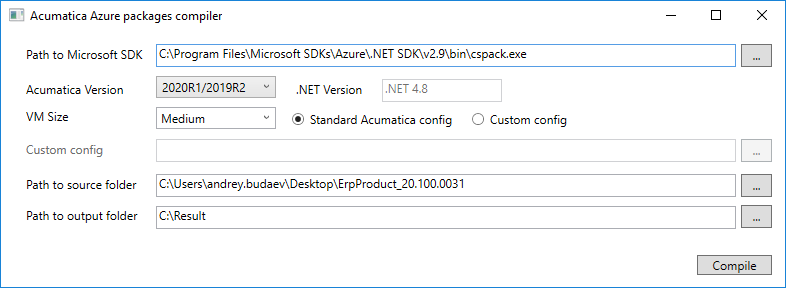
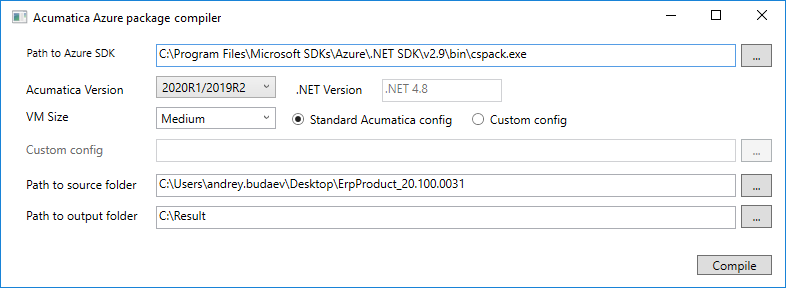
AC-153917: readme review

Changed region(s): [[0.0, 0.0312, 0.2748, 0.0938], [0.0305, 0.1562, 0.1832, 0.2188]]

diff --git a/src/AzureCompiler.UI/MainWindow.xaml b/src/AzureCompiler.UI/MainWindow.xaml
@@ -5,7 +5,7 @@
         xmlns:mc="http://schemas.openxmlformats.org/markup-compatibility/2006"
         xmlns:local="clr-namespace:AzureCompiler.UI"
         mc:Ignorable="d"
-        Title="Acumatica Azure packages compiler" Height="295" Width="800">
+        Title="Acumatica Azure package compiler" Height="295" Width="800">
     <Grid>
         <Label Content="Path to Azure SDK " HorizontalAlignment="Left" Margin="20,10,0,0" VerticalAlignment="Top" RenderTransformOrigin="2.0,3.0"/>
         <TextBox HorizontalAlignment="Left" Height="23" Margin="155,13,0,0" TextWrapping="Wrap" VerticalAlignment="Top" Width="580" Name="TbSDK" MouseDoubleClick="TexBox_Path_MouseDoubleClick" />

diff --git a/README.md b/README.md
@@ -1,50 +1,53 @@
-# Azure package compiler
+# Azure Package Compiler
 
 ## Solution structure
 
-Program have two versions of application. With UI and console application. You can find them inside solution AzureCompiler.
+The Azure package compiler has a version with UI and a console version. You can find these versions inside the `AzureCompiler` solution.
 
-- AzureCompiler.Console - console application
-- AzureCompiler.UI - UI application
-- AzureCompiler.Core - main algorithm for compilation package.
-- DummySite - site using for pre installation acumatica.
-- PX.Dummy - required for DummySite.
-- PX.Azure - configuration for Acumatica Role in Azure
+The `AzureCompiler` solution has the following structure:
+- `AzureCompiler.Console`: The console application
+- `AzureCompiler.UI`: The application with UI
+- `AzureCompiler.Core`: The main algorithm for compilation of the package
+- `DummySite`: A site that is used for preinstallation of Acumatica ERP
+- `PX.Dummy`: A supplementary project that is required for `DummySite`
+- `PX.Azure`: The configuration for the Acumatica role in Azure
 
-## Before run application
+## Before you run the application
 
-You need to install Azure SDK.
-You can do it Visual Studio installer for version (2017, 2019). Just select it as workload in installation.
-![Selected AzureSDK](/docs/images/install.png "AzureSDK")
+You need to install Azure SDK. To do it, you run Visual Studio Installer (Version 2017 or 2019) and select the check box for **Azure development** on the **Workloads** tab, as shown in the following screenshot.
+![Selected AzureSDK](docs/images/install.png "AzureSDK")
 
 ## AzureCompiler.UI
+The UI of the application is shown in the following screenshot.
 
-![Opened UI application](/docs/images/ui1.png "EmptyUI")
+![Opened UI application](docs/images/ui1.png "EmptyUI")
 
-| Input parameter | Required | Default | Description |
+The UI elements are described in the following table.
+
+| Element | Required | Default | Description |
 | --------------- | -------- | ------- | ----------- |
-| Path to Azure SDK     | Yes | None | Path to azure packaging tool cspack.exe |
-| Acumatica Version     | Yes | Default value "2020R1/2019R2" | Use for prefere which version of NET Framework required install before start Acumatica ERP |
-| VM Size               | Yes, if selected radio button "Standard Acumatica config" | Defaule value - Medium | Define virtual machine size for which will be compiled azure package. If you don't find required size, you can write it in the field. Application will be use standard Acumatica configuration for azure packages |
-| Custom config         | Yes, if selected radio button "Custom config" | None | Define full path to file *.csdef. In this case application didn't use VM Size |
-| Path to source folder | Yes | None | Path to unpacked ErpPackage.zip. It can be downloaded from [builds](http://builds.acumatica.com/) |
-| Path to output folder | Yes | None | Path to directory where is to save azure package. If you use standard config - output files name will be like this "Standard_{Vm SIze}.cspkg", if you use custom config output file name will be "AzurePackage.cspkg" |
+| **Path to Azure SDK**     | Yes | None | The path to the `cspack.exe` Azure packaging tool. |
+| **Acumatica Version**     | Yes | *2020R1/2019R2* | The version of Acumatica ERP. The value defines which version of NET. Framework must be installed before the start of Acumatica ERP. (The .Net Framework version that corresponds to the selected version of Acumatica ERP is shown in the **.Net Version** box.)|
+| **VM Size**               | Yes if the **Standard Acumatica config** radio button is selected | *Medium* | The size of the virtual machine for which the Azure package will be compiled. If you cannot find the needed size in the list, you can type one of the general purpose virtual machine sizes in the field. Because the **Standard Acumatica config** radio button is selected, the application will use the standard Acumatica config (the `*.csdef` file) for the Azure packages. |
+| **Custom config**         | Yes if the **Custom config** radio button is selected | None | The full path to the `*.csdef` file. If this value is specified, the application does not use `VM Size`. |
+| **Path to source folder** | Yes | None | The path to the folder with unpacked `ErpPackage.zip`. The archive can be downloaded from [builds](http://builds.acumatica.com/). |
+| **Path to output folder** | Yes | None | The path to the folder where the Azure package should be saved. If you use the standard Acumatica config, the name of the output file will have the following format: `Standard_{Vm Size}.cspkg`. If you use a custom config, the output file name will be `AzurePackage.cspkg`. |
 
-Example filled fields
-![Opened UI application - 2](/docs/images/ui2.png "FilledUI")
+The following screenshot shows an example of the values specified in the UI.
+![Opened UI application - 2](docs/images/ui2.png "FilledUI")
 
-After each run application store selected settings in user directory.
+After each run the application saves the selected settings in the user directory.
 
 ### AzureCompiler.Console
 
-Tools for compilation azure package in a build system.
+`AzureCompiler.Console` is a tool for compilation of the Azure package in a build system. You can run the console application with the parameters listed in the following table.
 
 | Input parameter | Required | Description |
 | --------------- | -------- | ----------- |
-| -c, --cspack      | Yes | Path to azure packaging tool cspack.exe |
-| -s, --sourceDir   | Yes | Path to source folder, unpacked ErpPackage.zip |
-| -o, --outDir      | Yes | Path to output folder |
-| -f, --framework   | Yes | Framework version. Avaiable values: NDP48 - for version 2019R2/2020R1, NDP482 - 2019R1 |
-| -v, --vmSize      | Yes, if you use custom config |Vitrual machine size. |
-| -g, --config      | Yes, if you use standard config | Path to your custom config file (*.csdef). |
-| -q, --quiet       | No | (Default: false) Closing window when program is finished |
+| `-c`, `--cspack`      | Yes | The path to the `cspack.exe` Azure packaging tool. |
+| `-s`, `--sourceDir`   | Yes | The path to the folder with unpacked `ErpPackage.zip`. |
+| `-o`, `--outDir`      | Yes | The path to the folder where the Azure package should be saved. |
+| `-f`, `--framework`   | Yes | The version of .NET Framework, which can be one of the following: *NDP48* (for Acumatica ERP 2019 R2 or 2020 R1) or *NDP482* (for Acumatica ERP 2019 R1). |
+| `-v`, `--vmSize`      | Yes if you use a custom config |The vitrual machine size. |
+| `-g`, `--config`      | Yes if you use the standard Acumatica config | The full path to the `*.csdef` file. |
+| `-q`, `--quiet`       | No | The value that indicates (if set to `true`) that the console window should be closed when the execution is completed. The value is `false` by default. |
